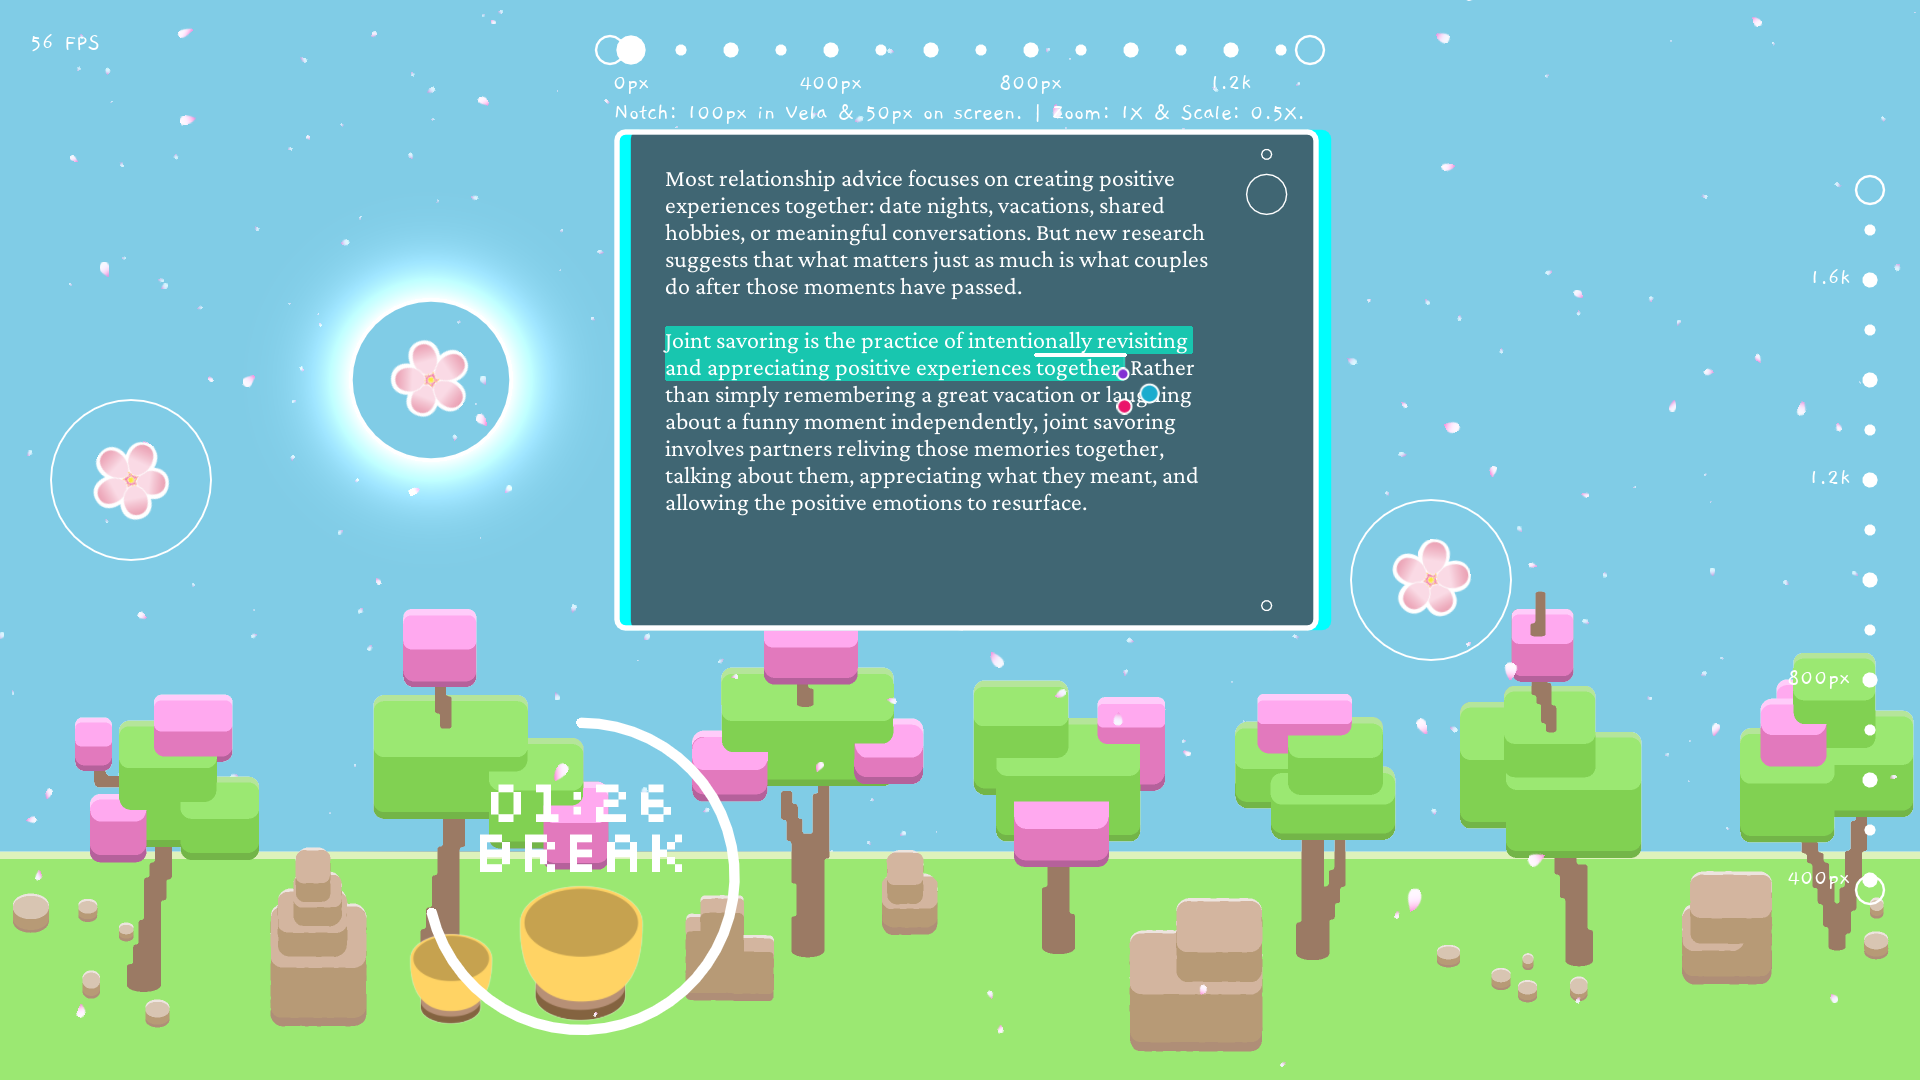
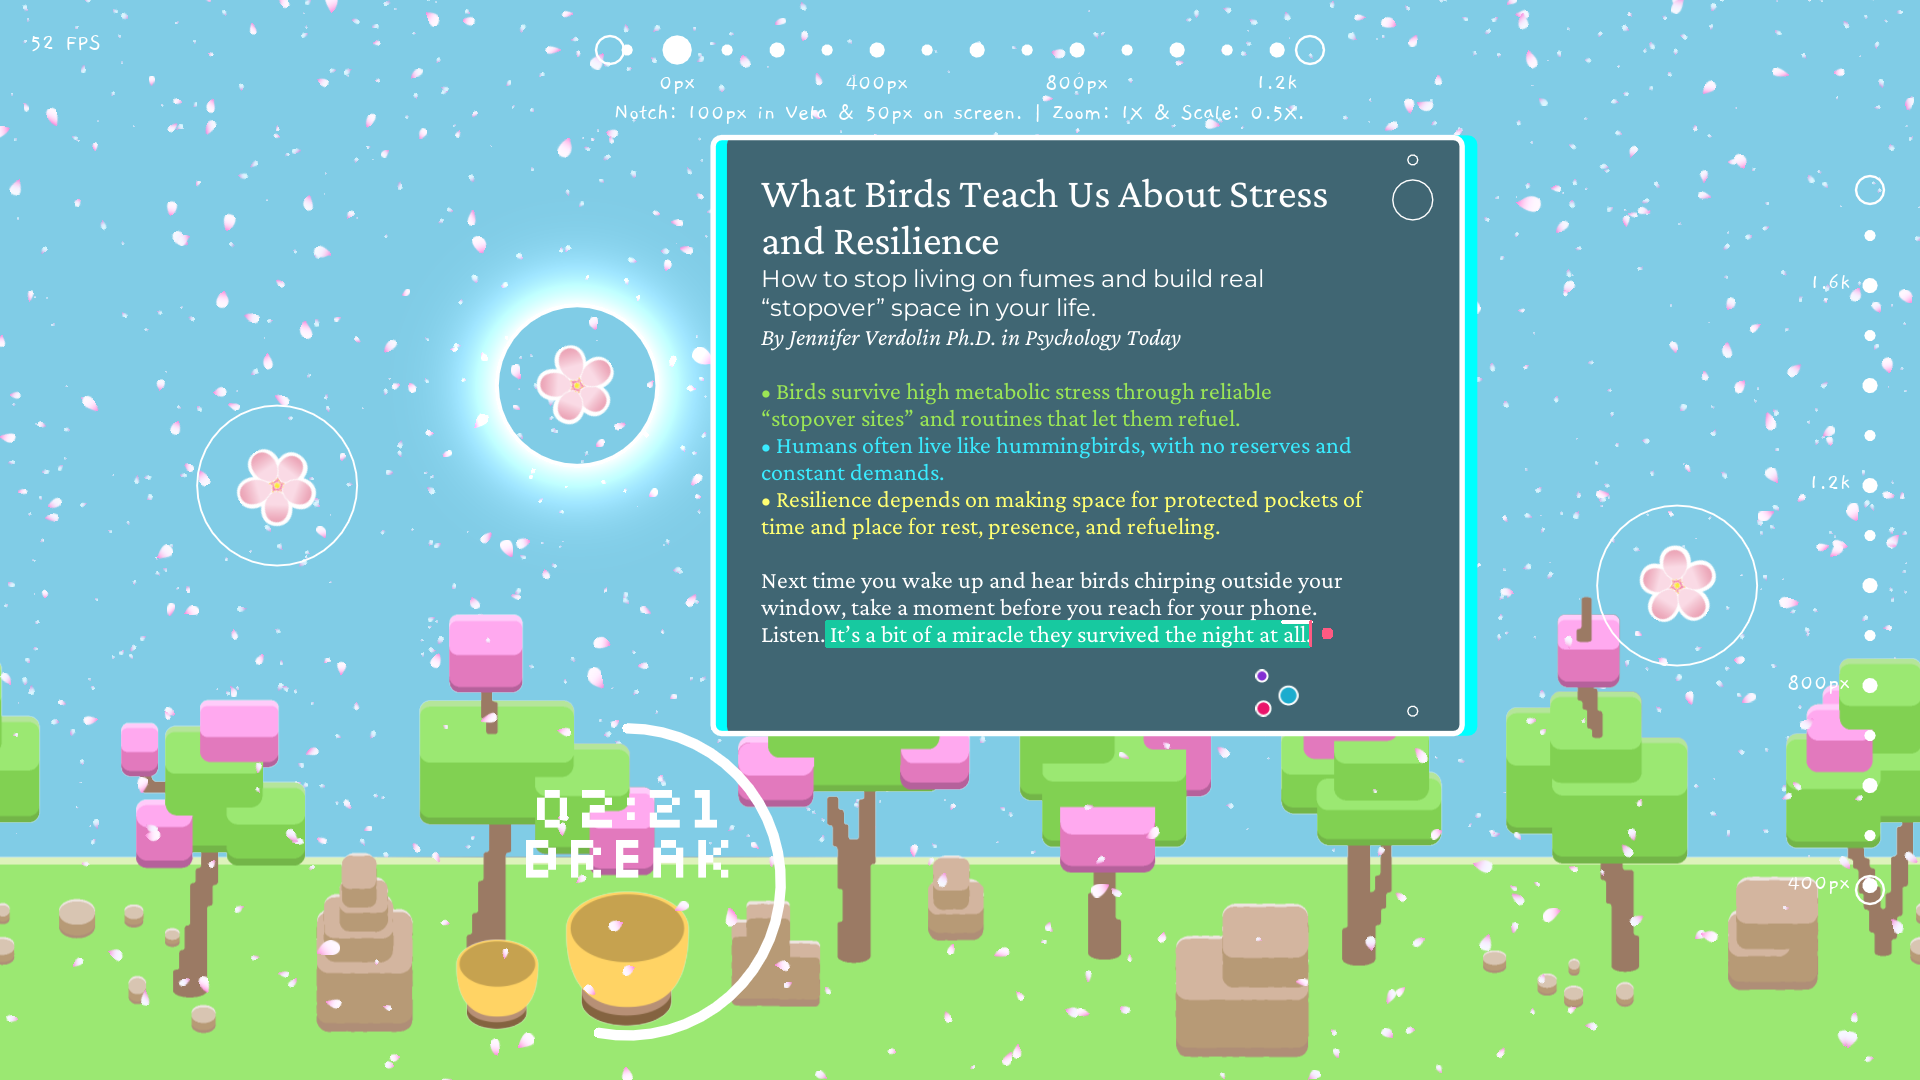
replace first screenshot

diff --git a/docs/index.html b/docs/index.html
@@ -449,7 +449,7 @@
 
 	<ul>
 		<li>You are interested in where Vela is meant to go?</li>
-		<li>See <a href="https://canva.link/nydci54welhe1kb" target="_blank" rel="noopener">this <img src="images/Canva_Logo_White.svg" alt="VELA Canva App Pitch" style="height: 24px; vertical-align: middle;"> presentation.</a></li>
+		<li>Get in touch to see pitches about Vela's future: velacreativity@gmail.com</li>
 	</ul>
 	<hr>
 
